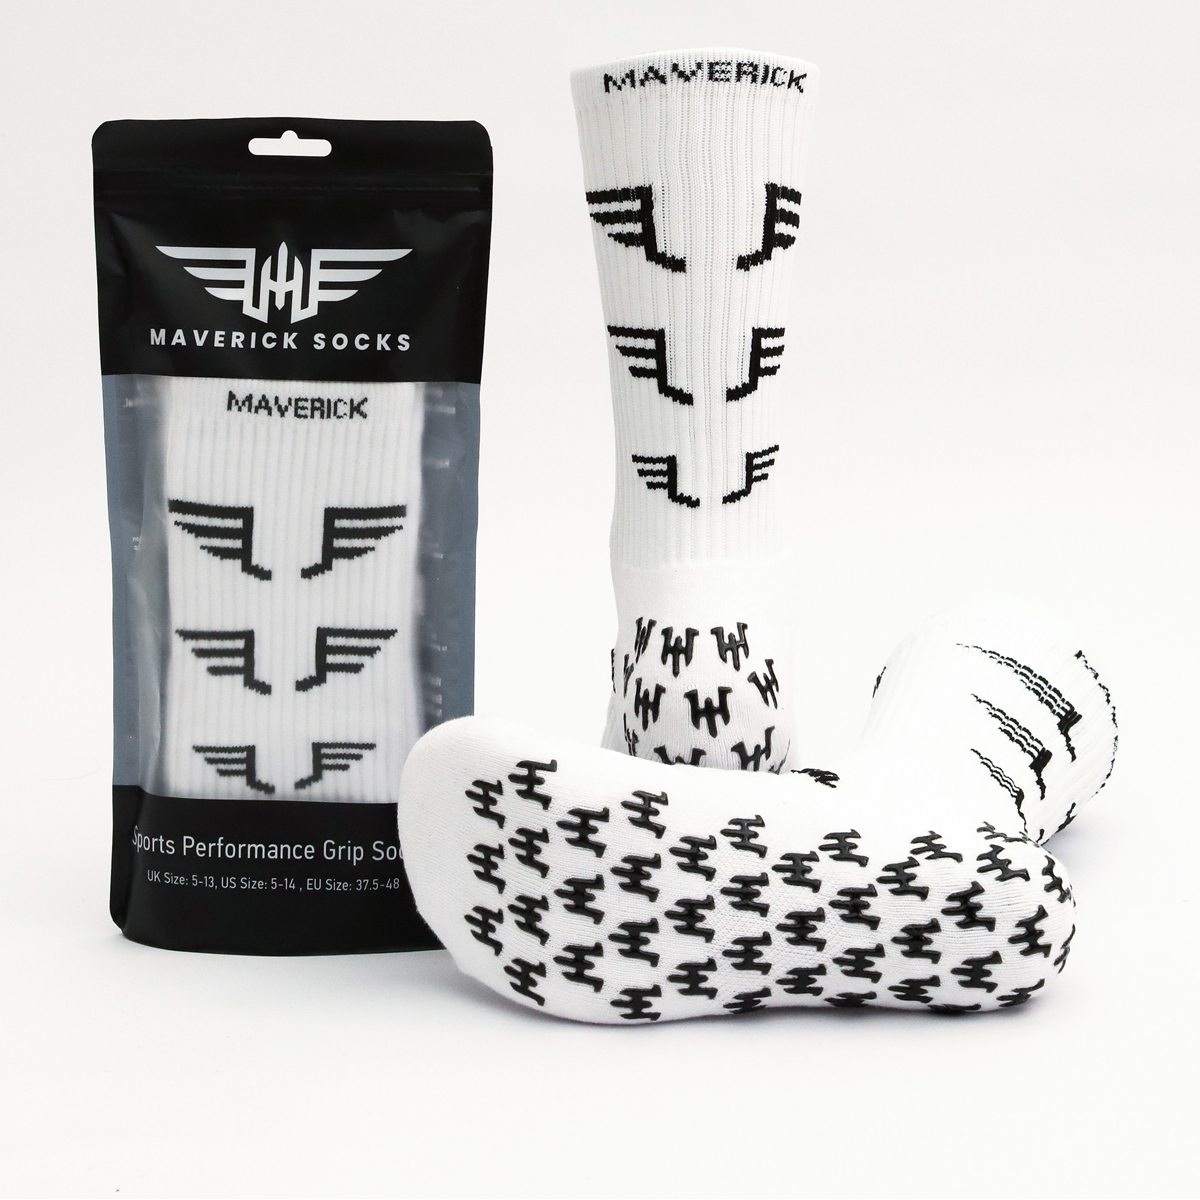
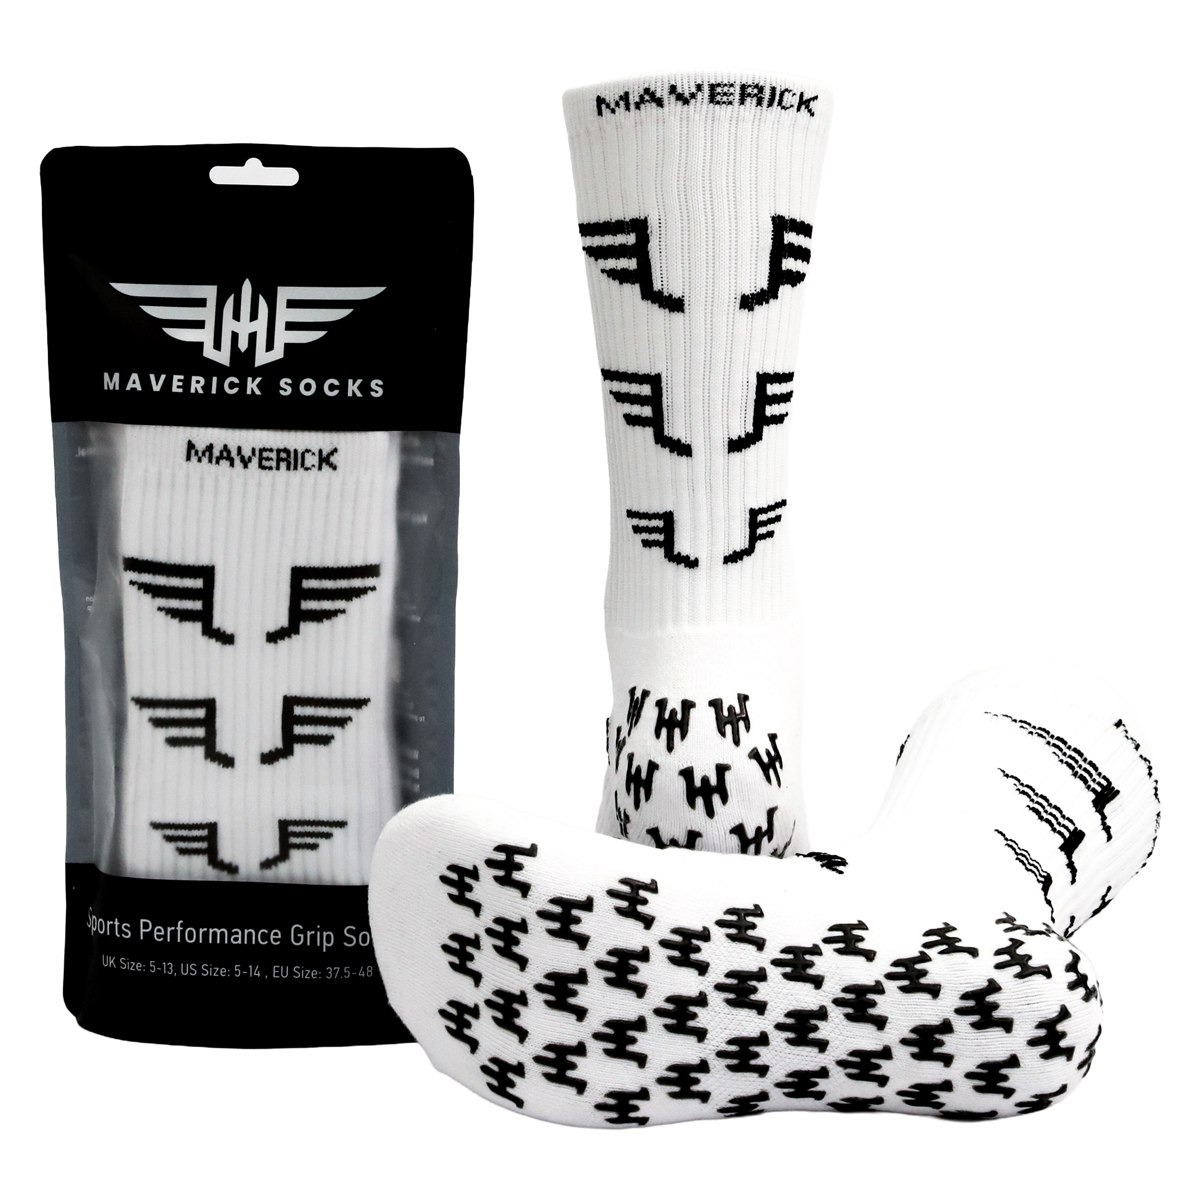
Swap catalogue photos for the white-background pack shots
New square 1200x1200 crops of the black, white and 3-pack product
groups, framed so nothing is clipped and all three read at a
consistent size. Cache-bust the image URLs (?v=2).

diff --git a/js/products.js b/js/products.js
@@ -7,7 +7,7 @@ window.MAVERICK_PRODUCTS = [
     id: "mav-grip-white",
     name: "Maverick Grip Socks — White",
     price: 12.99,
-    image: "assets/product-white.jpg",
+    image: "assets/product-white.jpg?v=2",
     alt: "White Maverick grip socks with packaging and the grip sole",
     blurb: "The original. White with the black wing motif and a full-contact grip sole.",
     badge: "Bestseller"
@@ -16,7 +16,7 @@ window.MAVERICK_PRODUCTS = [
     id: "mav-grip-black",
     name: "Maverick Grip Socks — Black",
     price: 12.99,
-    image: "assets/product-black.jpg",
+    image: "assets/product-black.jpg?v=2",
     alt: "Black Maverick grip socks with packaging and the grip sole",
     blurb: "Same grip, blacked out. Woven logo cuff and silicone grips inside and out.",
     badge: ""
@@ -25,7 +25,7 @@ window.MAVERICK_PRODUCTS = [
     id: "mav-grip-3pack",
     name: "Maverick Grip Socks — 3-Pack",
     price: 34.99,
-    image: "assets/product-3pack.jpg",
+    image: "assets/product-3pack.jpg?v=2",
     alt: "Three pairs of Maverick grip socks with packaging",
     blurb: "Three pairs of your choosing so there's always a clean set in the kit bag. Save £3.98.",
     badge: "Best value"
